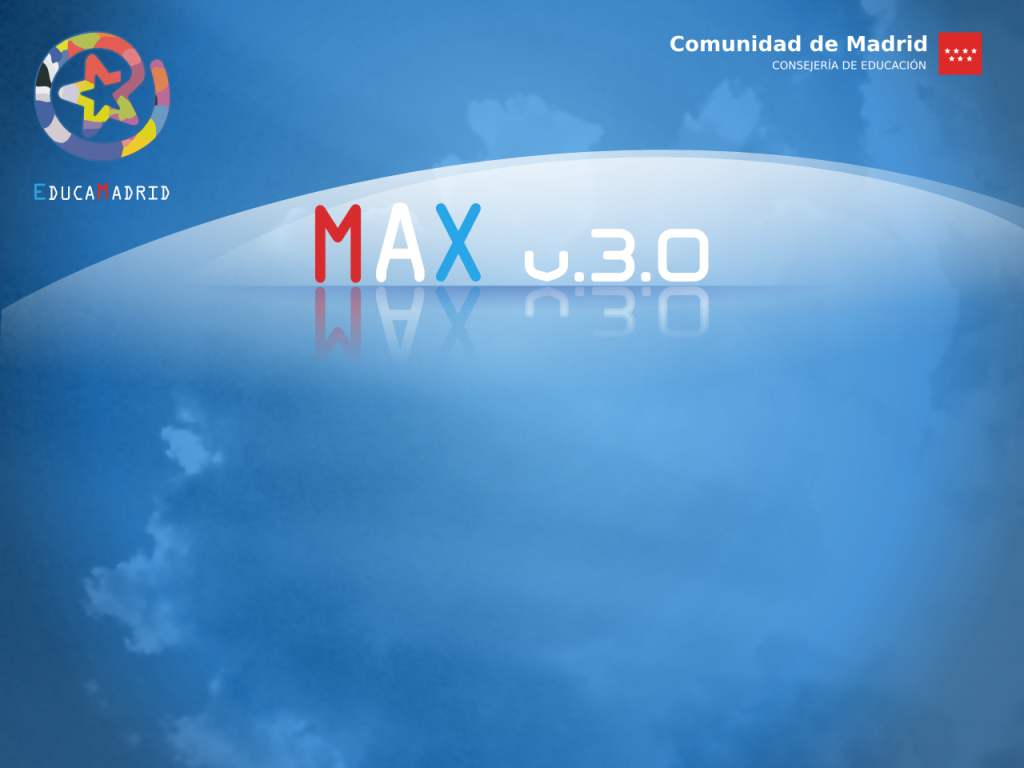
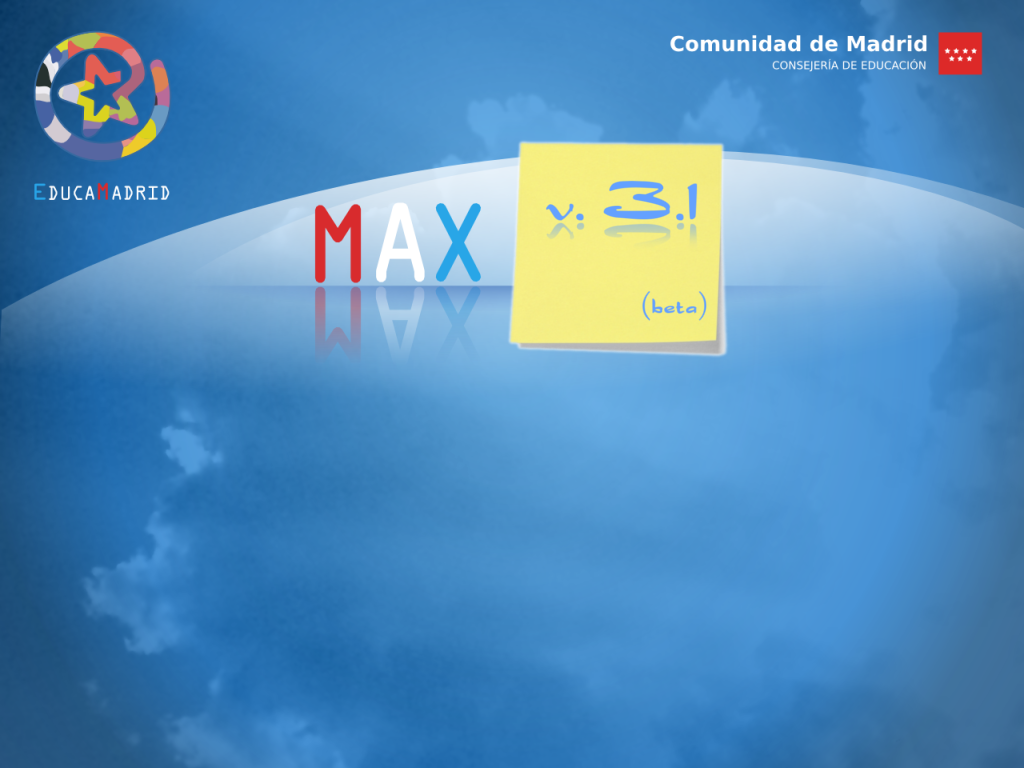
mario.izquierdo max-artwork (3.1.20071230.max3)   * Change text in usplash, splash and wallpaper to MaX 3.1 beta   * debian/max-artwork.postrm debian/max-artwork.postinst     - Fix sed command
git-svn-id: http://max.educa.madrid.org:8000/svn/trunk@31 424cea3e-0240-0410-9575-8bd47b58cd33

Changed region(s): [[0.5, 0.1562, 0.7188, 0.4688]]

diff --git a/max-artwork/art/homepage/index.html b/max-artwork/art/homepage/index.html
@@ -3,7 +3,7 @@
 
 <html xmlns="http://www.w3.org/1999/xhtml">
 <head>
-  <title>Welcome to Max 6.06 LTS!</title>
+  <title>Welcome to Max 3.1 beta</title>
   <link rel="stylesheet" href="file:///usr/share/max-artwork/home/max.css" type="text/css" />
 </head>
 
@@ -16,7 +16,7 @@
 
   <div id="content">
 
-  <h1 class="title"><a id="art-about-max" name= "art-about-max"></a>Welcome to Max 6.06 LTS !</h1>
+  <h1 class="title"><a id="art-about-max" name= "art-about-max"></a>Welcome to Max 3.1 beta</h1>
 	<p><a href="http://www.max.org">Max</a> is an operating system designed with education in mind. It is based on <a href="http://www.ubuntu.com">Ubuntu</a>, a complete operating system that uses the Linux kernel and freely available to the public.</p>
   <p>The Max project is built on the ideas enshrined in the
   <a href="http://www.ubuntu.com/ubuntu/philosophy">Ubuntu philosophy</a>: that software should be available free of charge, that software tools should be usable by people in their local language, and that people should have the freedom to customize and alter their software in whatever way they need.</p>
